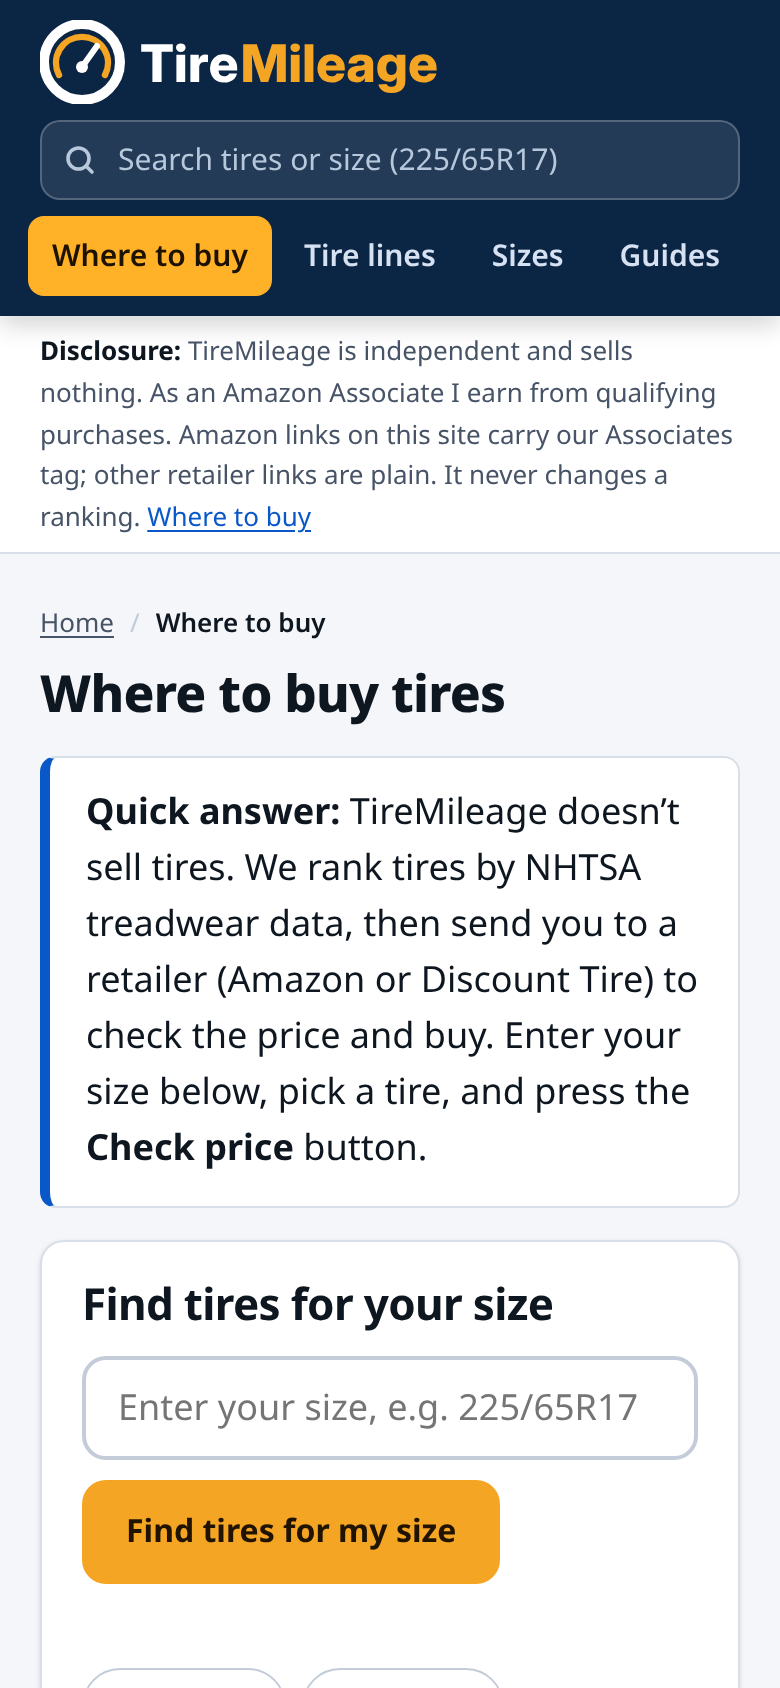
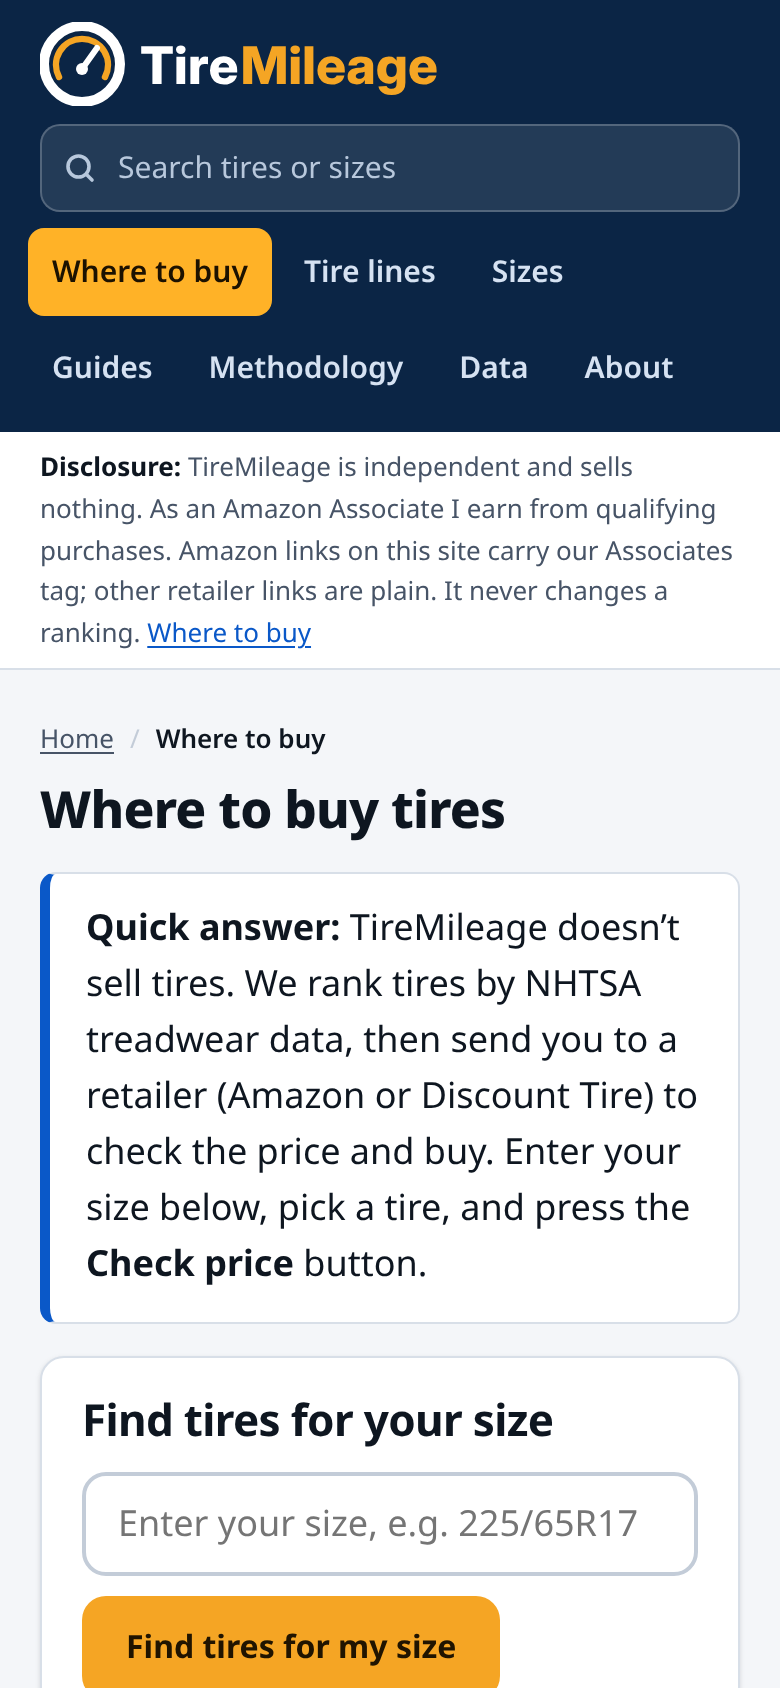
Design fixes: mobile nav wraps (all items reachable), size ranking becomes cards on mobile with sort buttons, 44px tap targets, >=12px text, shorter search placeholder, wrapping formula code, scroll-shadow hint on scrollable tables, Atom feed content-type header

diff --git a/src/styles/global.css b/src/styles/global.css
@@ -124,7 +124,7 @@ main{padding:20px 0 56px;min-height:60vh}
 .gauge .rng{position:absolute;top:0;bottom:0;left:var(--lo);width:var(--rw);background:repeating-linear-gradient(135deg,rgba(255,255,255,.55) 0 3px,transparent 3px 6px);mix-blend-mode:soft-light;opacity:.9}
 .gauge .ticks{position:absolute;inset:0;background:linear-gradient(90deg,transparent calc(20% - 1px),rgba(255,255,255,.7) calc(20% - 1px) 20%,transparent 20%,transparent calc(40% - 1px),rgba(255,255,255,.7) calc(40% - 1px) 40%,transparent 40%,transparent calc(60% - 1px),rgba(255,255,255,.7) calc(60% - 1px) 60%,transparent 60%,transparent calc(80% - 1px),rgba(255,255,255,.7) calc(80% - 1px) 80%,transparent 80%)}
 .gauge.lg .bar{height:16px}.gauge.lg .val b{font-size:var(--fs-4)}
-.gauge .scale{display:flex;justify-content:space-between;font-size:.6875rem;color:var(--mut);margin-top:3px}
+.gauge .scale{display:flex;justify-content:space-between;font-size:.75rem;color:var(--mut);margin-top:3px}
 .w1{--c:var(--w1)}.w2{--c:var(--w2)}.w3{--c:var(--w3)}.w4{--c:var(--w4)}.w5{--c:var(--w5)}
 
 /* badges: letter + word, never color alone */
@@ -135,7 +135,7 @@ main{padding:20px 0 56px;min-height:60vh}
 .badge.big{font-size:var(--fs-1);padding:5px 12px;border-radius:9px}
 
 /* tables */
-.tw{overflow-x:auto;background:var(--surface);border:1px solid var(--bd);border-radius:var(--r);box-shadow:var(--shadow);margin:10px 0;-webkit-overflow-scrolling:touch}
+.tw{overflow-x:auto;background:linear-gradient(to right,var(--surface) 30%,transparent) left center/36px 100% no-repeat local,linear-gradient(to left,var(--surface) 30%,transparent) right center/36px 100% no-repeat local,radial-gradient(farthest-side at 0 50%,rgba(0,0,0,.28),transparent) left center/14px 100% no-repeat scroll,radial-gradient(farthest-side at 100% 50%,rgba(0,0,0,.28),transparent) right center/14px 100% no-repeat scroll,var(--surface);border:1px solid var(--bd);border-radius:var(--r);box-shadow:var(--shadow);margin:10px 0;-webkit-overflow-scrolling:touch}
 table{border-collapse:collapse;width:100%;font-size:var(--fs-1);font-variant-numeric:tabular-nums}
 th,td{padding:10px 14px;text-align:left;vertical-align:middle;border-bottom:1px solid var(--bd)}
 tbody tr:last-child td,tbody tr:last-child th{border-bottom:0}
@@ -198,13 +198,14 @@ footer.site-f .cols3{display:grid;grid-template-columns:1.4fr 1fr 1fr;gap:28px}
 footer.site-f h3,footer.site-f h4{margin:0 0 8px;color:#fff;font-size:var(--fs-1)}footer.site-f ul{list-style:none;padding:0;margin:0;display:grid;gap:6px}
 footer.site-f .fine{border-top:1px solid rgba(255,255,255,.14);margin-top:22px;padding-top:16px;font-size:var(--fs-0)}
 
-/* mobile header: logo + search on row 1, nav scrolls on row 2 */
+/* mobile header: logo + search on row 1, all nav items wrap onto rows below (no hidden scroller); header scrolls away instead of sticking so it cannot eat the viewport */
 @media(max-width:860px){
-  :root{--hdr:104px}
+  :root{--hdr:0px}
+  .site-h{position:static}
   .site-h .in{flex-wrap:wrap;height:auto;padding-top:10px;padding-bottom:6px;gap:8px 12px}
   .search{order:2;width:auto;flex:1 1 180px;margin-left:0}
-  .nav{order:3;flex-basis:100%;overflow-x:auto;margin:0 -6px;padding-bottom:4px;scrollbar-width:none}
-  .nav a{white-space:nowrap}
+  .nav{order:3;flex-basis:100%;flex-wrap:wrap;gap:4px;margin:0 -6px;padding-bottom:4px}
+  .nav a{white-space:nowrap;min-height:44px;display:inline-flex;align-items:center;padding:6px 12px}
   .results{position:fixed;left:12px;right:12px;top:auto;margin-top:6px;min-width:0}
 }
 @media(prefers-reduced-motion:reduce){*{transition:none!important;scroll-behavior:auto!important}}
@@ -263,7 +264,7 @@ td .sbtn-sm{margin:2px 0}
   .shopbar{display:block;position:fixed;left:0;right:0;bottom:0;z-index:50;background:var(--surface);border-top:2px solid var(--hi);box-shadow:0 -4px 16px rgba(0,0,0,.25);padding:8px 10px calc(8px + env(safe-area-inset-bottom))}
   .shopbar-in{display:grid;grid-template-columns:1fr 1fr;gap:8px}
   .shopbar .sbtn{min-height:48px;padding:6px 8px;font-size:var(--fs-0)}
-  .shopbar-fine{margin:4px 0 0;text-align:center;font-size:.6875rem;line-height:1.2;color:var(--mut)}
+  .shopbar-fine{margin:4px 0 0;text-align:center;font-size:.75rem;line-height:1.2;color:var(--mut)}
   .shopbar-fine a{color:var(--ac)}
   body:has(.shopbar){padding-bottom:104px}
   .nav a.nav-buy{order:-1}
@@ -277,3 +278,49 @@ td .sbtn-sm{margin:2px 0}
 
 .sbtn{position:relative}
 .search{flex-basis:270px!important}
+
+/* wrapping long inline formulas */
+main code{white-space:normal;overflow-wrap:break-word;box-decoration-break:clone;-webkit-box-decoration-break:clone;line-height:1.7}
+
+/* ---- mobile touch targets (>=44px) and card layout for the size ranking ---- */
+@media(max-width:760px){
+  .sbtn-sm{min-height:44px;padding:8px 14px;font-size:var(--fs-1)}
+  td input{height:44px;font-size:1rem}
+  th button{min-height:44px}
+  .disc a{display:inline-block;padding:13px 6px;margin:-13px -6px}
+  .logo{min-height:44px}
+  .guide-meta a{display:inline-block;padding:10px 0}
+  .search input{height:44px}.search svg{top:13px}
+  .calc-form input{height:44px}
+  .tcard .name{display:inline-block;padding:11px 0}
+  ul.rel li a{display:inline-block;padding:11px 0}
+  .sec-h a{display:inline-flex;align-items:center;min-height:44px}
+  .chip{min-height:44px;display:inline-flex;align-items:center}
+
+  .tw-cards{overflow:visible;background:none;border:0;box-shadow:none;margin:10px 0}
+  #rank-table,#rank-table tbody{display:block}
+  #rank-table thead{display:block;margin:0 0 10px}
+  #rank-table thead::before{content:"Sort by";display:block;font-size:.75rem;font-weight:700;text-transform:uppercase;letter-spacing:.05em;color:var(--mut);margin:0 2px 6px}
+  #rank-table thead tr{display:flex;flex-wrap:wrap;gap:6px}
+  #rank-table thead th{display:block;position:static;padding:0 12px;border:1px solid var(--bd2);border-radius:999px;background:var(--surface);text-transform:none;letter-spacing:0;font-size:var(--fs-1)}
+  #rank-table thead th[data-nosort],#rank-table thead th.hide-sm,#rank-table td.hide-sm{display:none}
+  #rank-table thead th button{min-height:44px}
+  #rank-table tbody tr{display:grid;grid-template-columns:repeat(6,minmax(0,1fr));gap:10px 12px;align-items:center;background:var(--surface);border:1px solid var(--bd);border-radius:var(--r);box-shadow:var(--shadow);padding:14px;margin:0 0 12px}
+  #rank-table td{display:block;padding:0;border:0;text-align:left;min-width:0}
+  #rank-table td[data-l]:not(.c-rank)::before{content:attr(data-l);display:block;font-size:.75rem;font-weight:600;color:var(--mut);margin-bottom:3px}
+  #rank-table .c-rank{grid-column:1/2;grid-row:1/3;align-self:start;font-size:var(--fs-4);font-weight:800}
+  #rank-table .c-rank::before{content:"#"}
+  #rank-table .c-brand{grid-column:2/-1;grid-row:1;font-size:var(--fs-0);text-transform:uppercase;letter-spacing:.07em;font-weight:700;color:var(--mut);align-self:end;margin-bottom:-8px}
+  #rank-table .c-line{grid-column:2/-1;grid-row:2;font-size:var(--fs-3);font-weight:700;align-self:start}
+  #rank-table .c-line a{display:inline-block;padding:8px 0;min-width:44px}
+  #rank-table .c-wear{grid-column:1/-1}
+  #rank-table .c-trac{grid-column:1/4}
+  #rank-table .c-temp{grid-column:4/-1}
+  #rank-table .c-shop{grid-column:1/-1}
+  #rank-table .shop-mini{display:flex;gap:8px;width:100%}
+  #rank-table .shop-mini .sbtn{flex:1 1 0;margin:0}
+  #rank-table .c-price{grid-column:1/3}
+  #rank-table .c-miles{grid-column:3/5}
+  #rank-table .c-cost{grid-column:5/-1;font-weight:700}
+  #rank-table td input{width:100%}
+}
